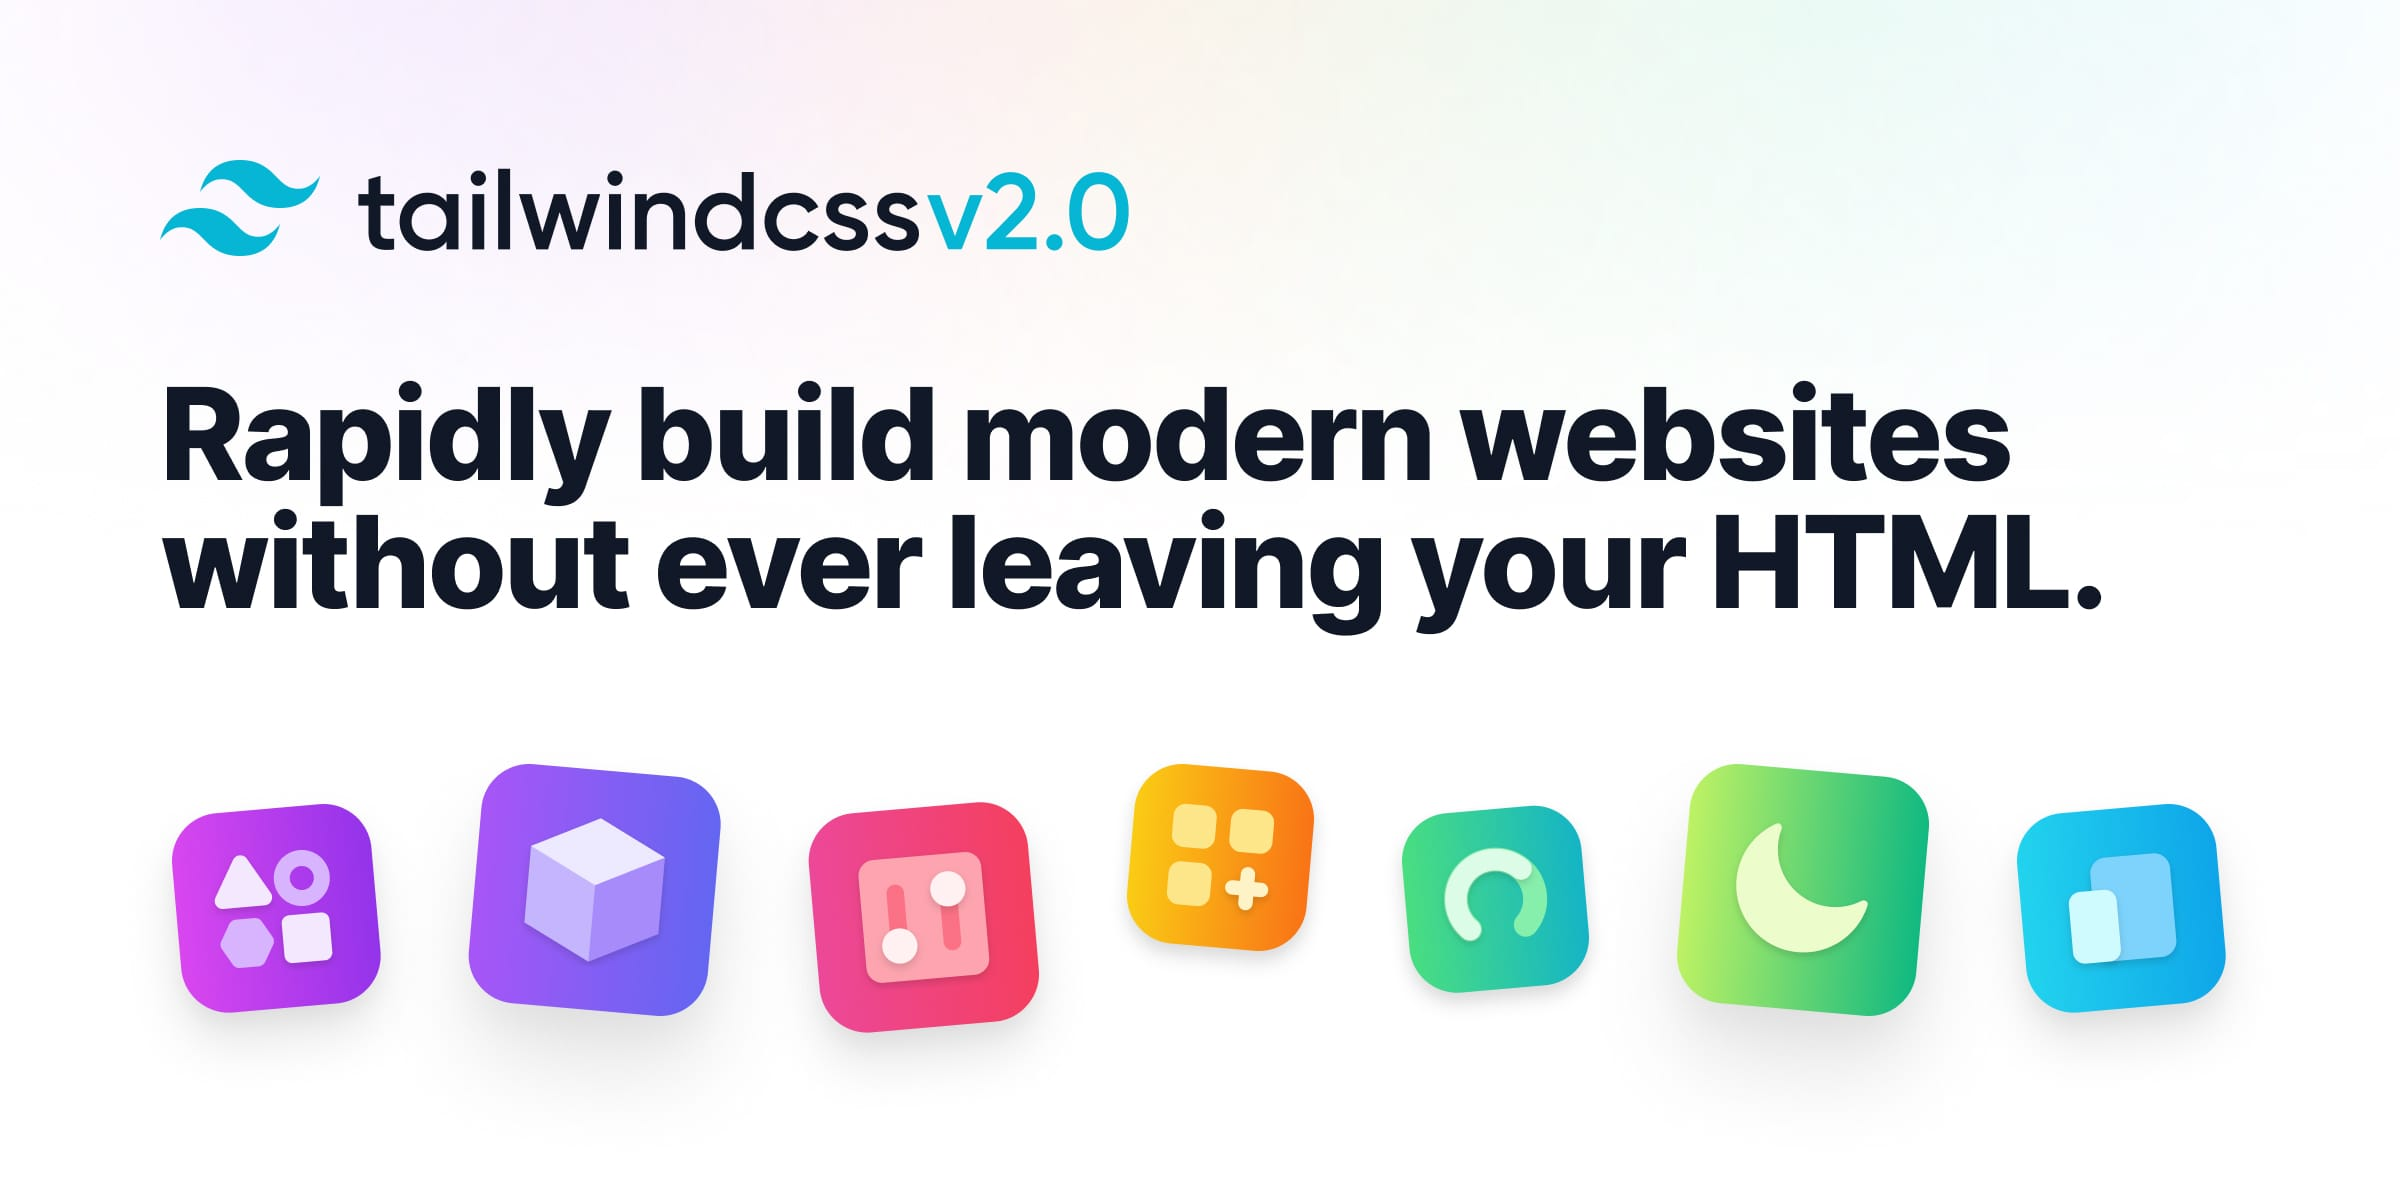
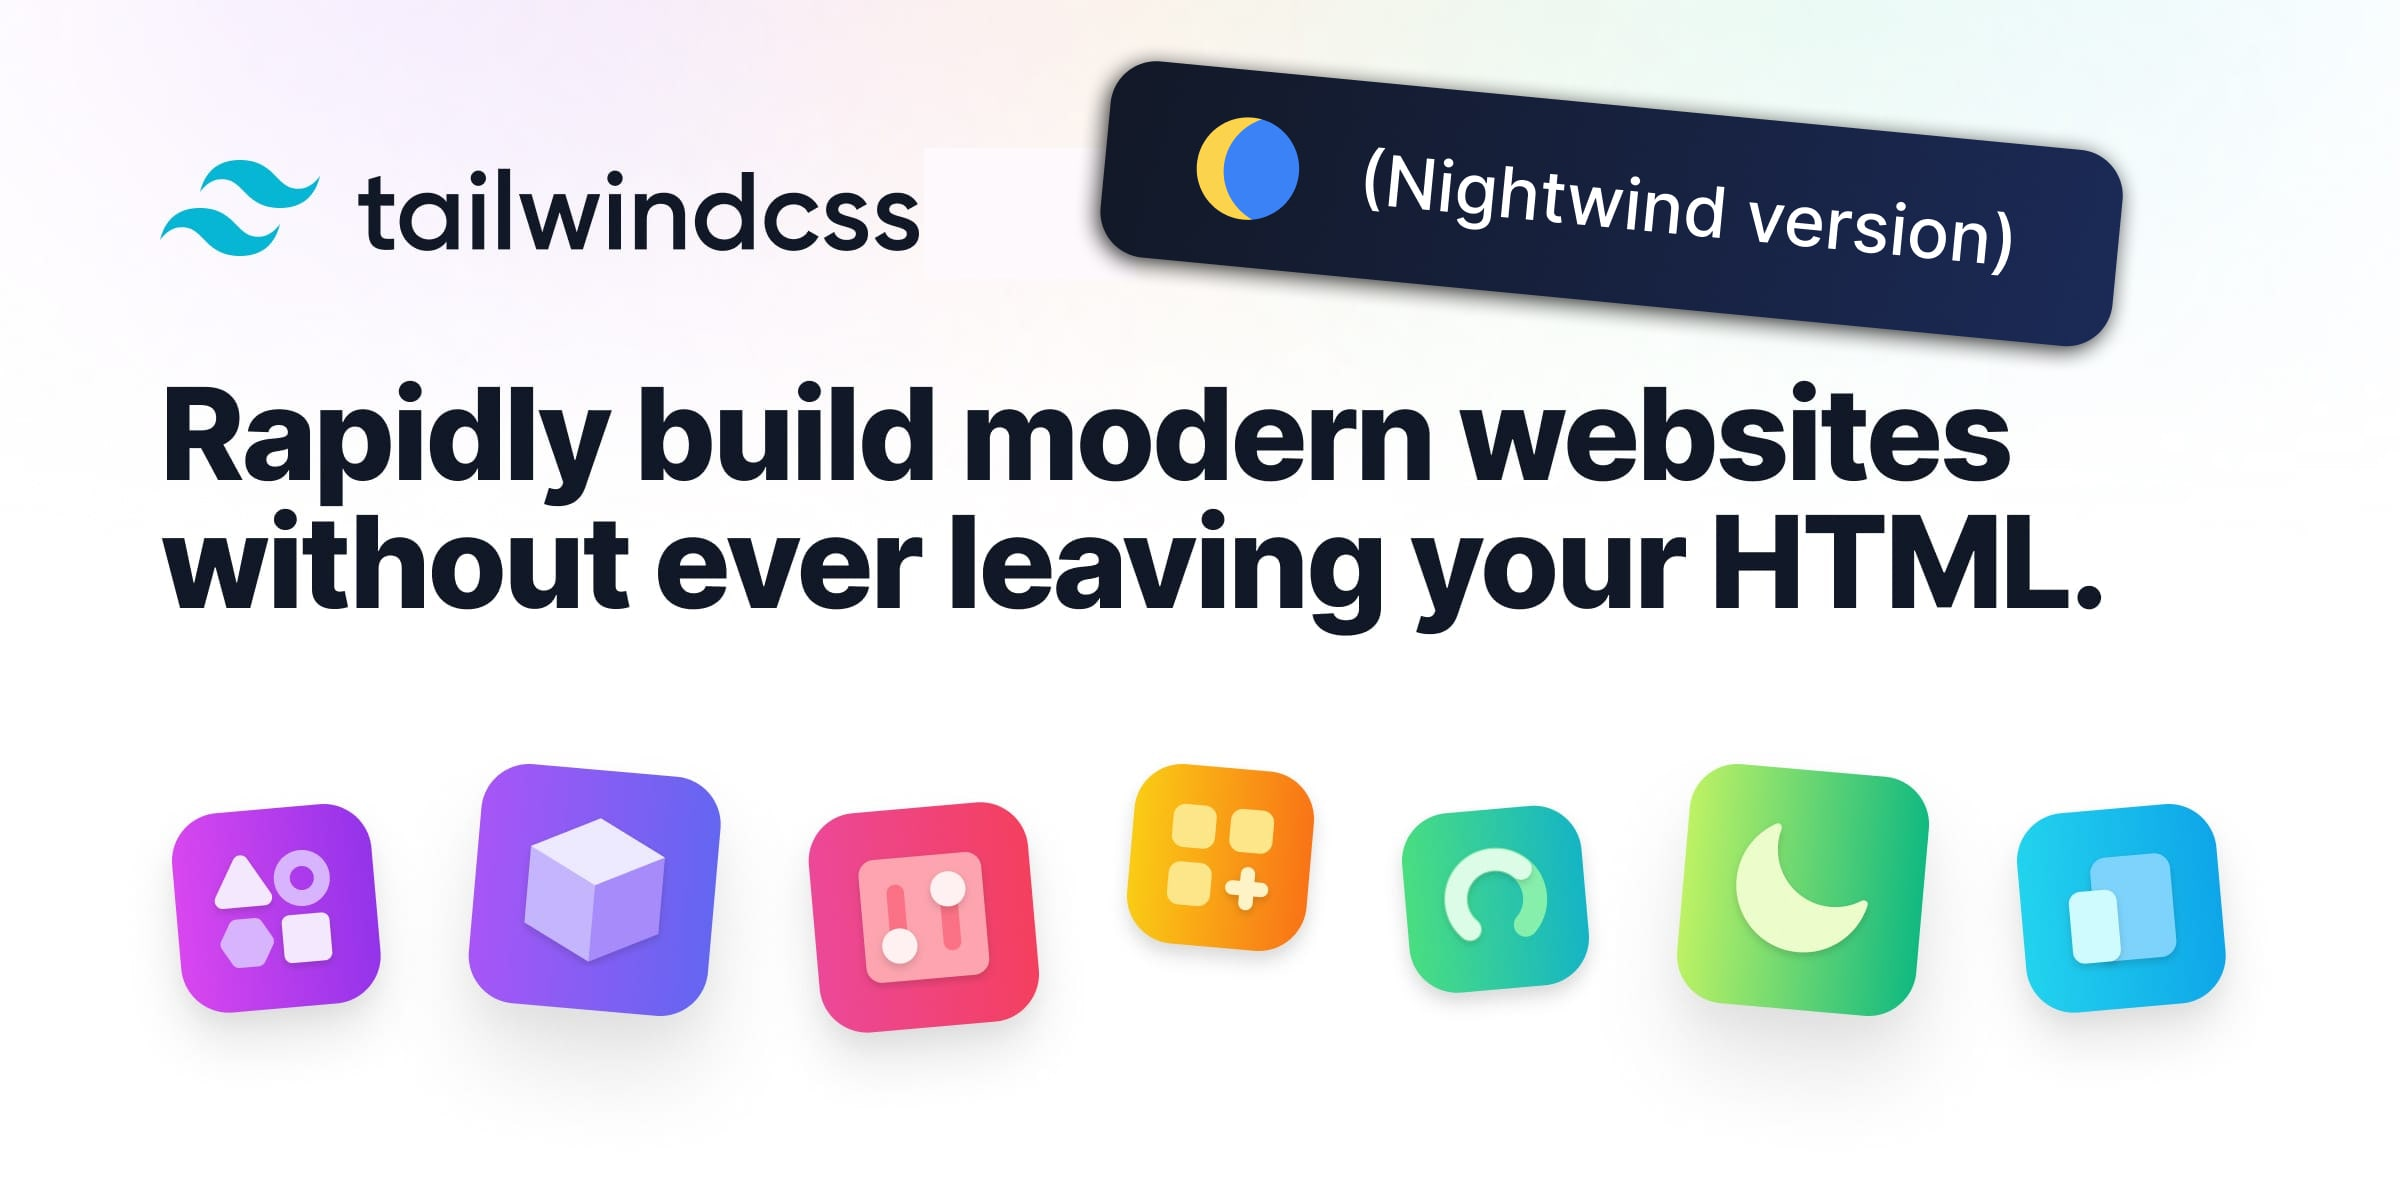
meta

Changed region(s): [[0.375, 0.0308, 0.9062, 0.3083]]

diff --git a/tailwindcss.com/src/pages/_app.js b/tailwindcss.com/src/pages/_app.js
@@ -57,7 +57,9 @@ export default function App({ Component, pageProps, router }) {
     : {}
   const meta = Component.layoutProps?.meta || {}
   const description =
-    meta.metaDescription || meta.description || 'Documentation for the Tailwind CSS framework.'
+    meta.metaDescription ||
+    meta.description ||
+    'A clone of the original Tailwind website with a dark mode, generated using the Nightwind plugin.'
 
   if (router.pathname.startsWith('/examples/')) {
     return <Component {...pageProps} />
@@ -73,20 +75,20 @@ export default function App({ Component, pageProps, router }) {
         <meta
           key="twitter:image"
           name="twitter:image"
-          content={`https://tailwindcss.com${twitterLargeCard}`}
+          content={`https://night-tailwindcss.vercel.app${twitterLargeCard}`}
         />
         <meta key="twitter:creator" name="twitter:creator" content="@tailwindcss" />
         <meta
           key="og:url"
           property="og:url"
-          content={`https://tailwindcss.com${router.pathname}`}
+          content={`https://night-tailwindcss.vercel.app${router.pathname}`}
         />
         <meta key="og:type" property="og:type" content="article" />
         <meta key="og:description" property="og:description" content={description} />
         <meta
           key="og:image"
           property="og:image"
-          content={`https://tailwindcss.com${twitterLargeCard}`}
+          content={`https://night-tailwindcss.vercel.app${twitterLargeCard}`}
         />
       </Head>
       <ThemeProvider attribute="class" storageKey="nightwind-mode" defaultTheme="system">
